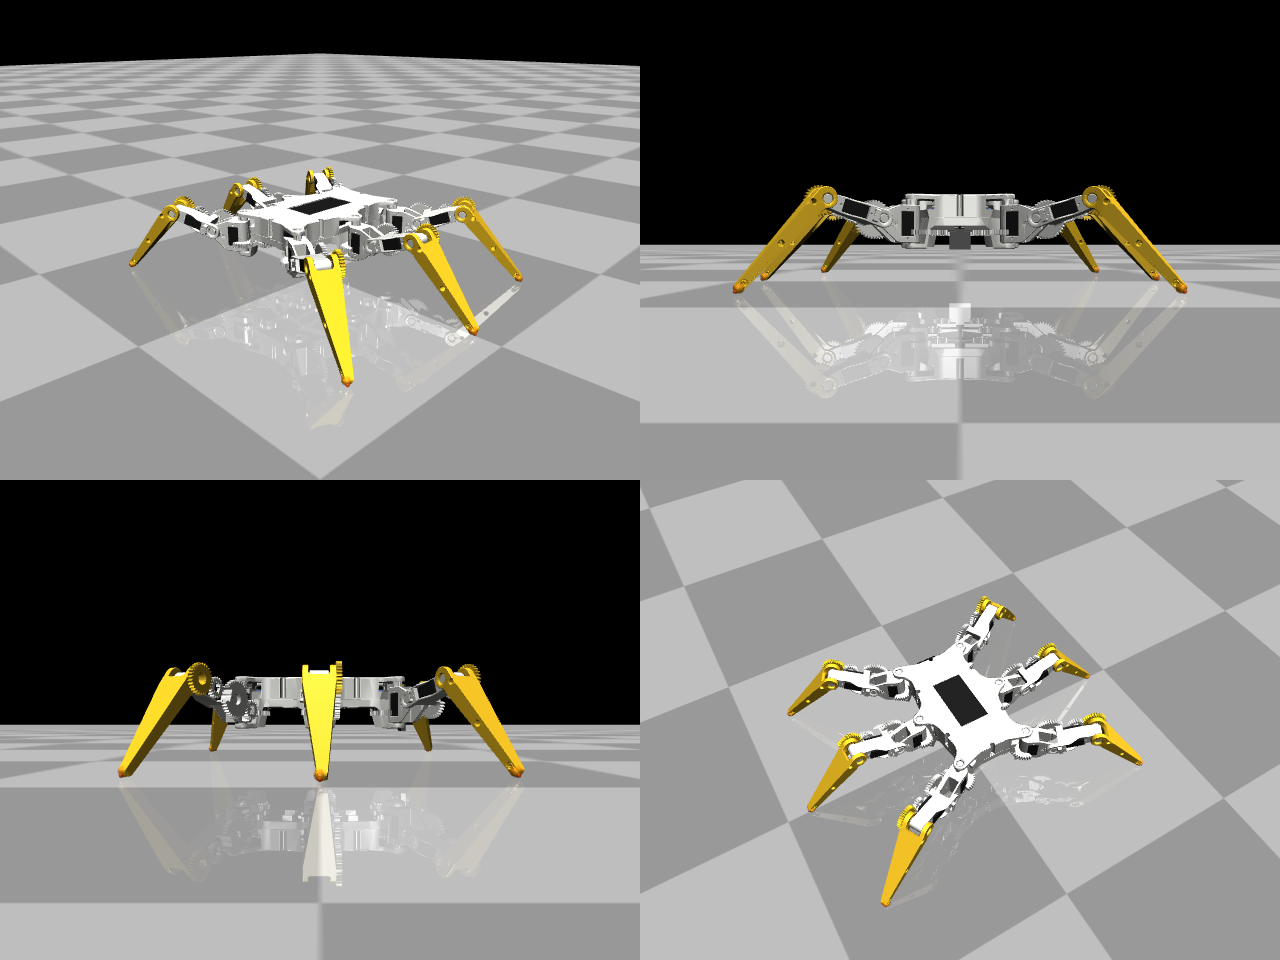
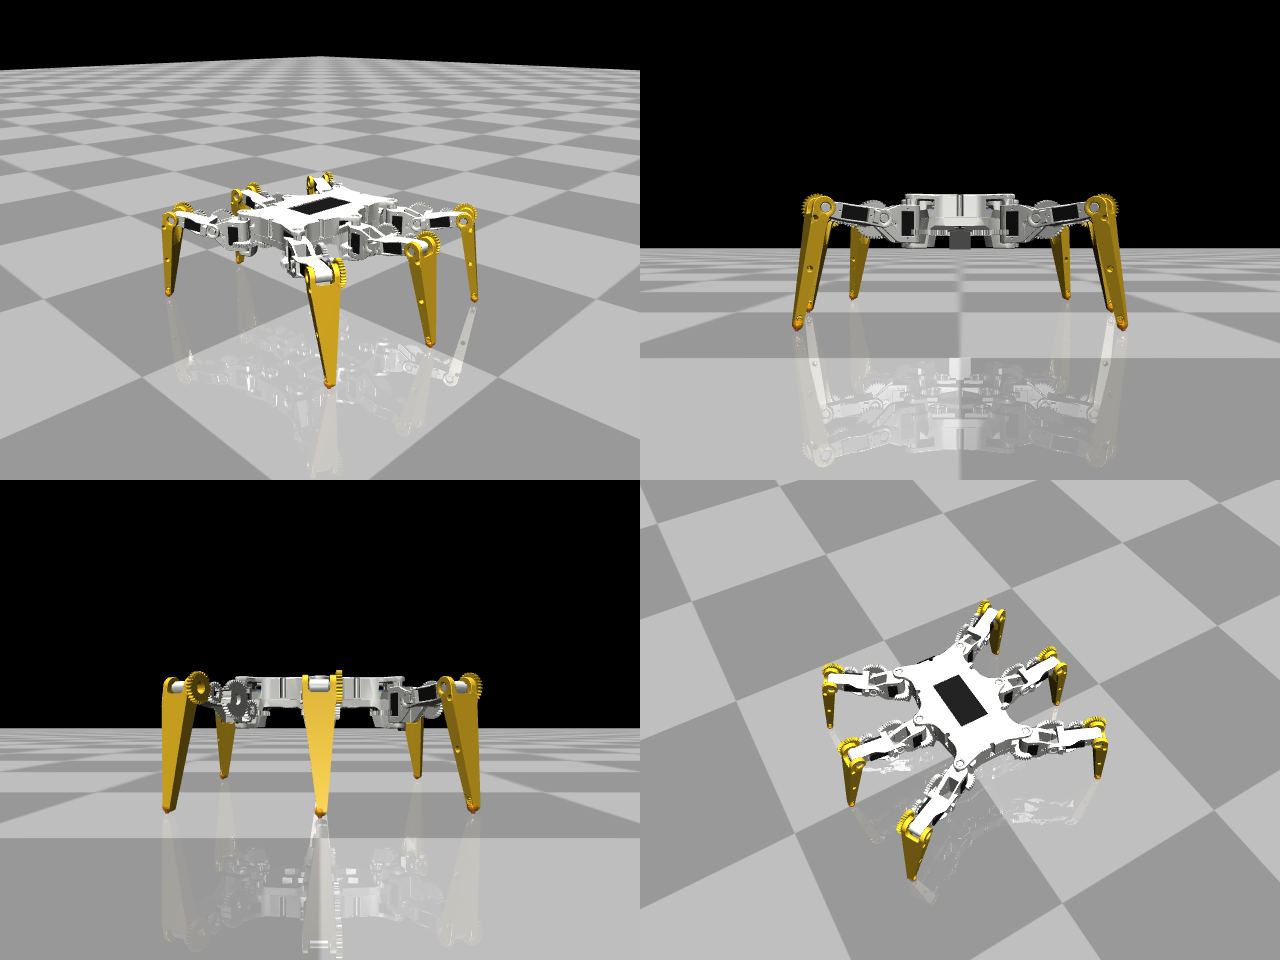
hexapod: taller stance, tibias near vertical
Neutral feet 110 mm out from the coxa axis and 100 mm down (was 160 / 67):
femur 8 deg up, tibia ~11 deg off vertical, body 33 mm higher. In the sim
the gait walks, strafes, turns and sits down with no servo range clamps,
and the femur servos drop from ~46% to ~26% of stall standing. Higher
knees run into the femur's 45 deg range (2:1 gear) when a foot lifts.

Claude-Session: https://claude.ai/code/session_01L7WAAAKkUGabR2XQgoanbZ

diff --git a/sim/tests/test_hexapod.py b/sim/tests/test_hexapod.py
@@ -39,13 +39,13 @@ def test_fk_inverts_firmware_ik(leg):
 
 
 def test_neutral_pose_is_servo_middle_rotated():
-    """Neutral stance: coxa at the servo middle, femur up 16.5 deg, knee open 24.6 deg."""
+    """Neutral stance: coxa at the servo middle, femur up 8.4 deg, knee nearly square (tibia ~11 deg off vertical)."""
     for leg in P.legs:
         a = firmware_ik(GEO, leg, default_foot(leg))
         q = leg_angles_to_q(*a)
         assert q[0] == pytest.approx(0, abs=1e-9)
-        assert math.degrees(q[1]) == pytest.approx(16.5, abs=0.1)
-        assert math.degrees(q[2]) == pytest.approx(24.6, abs=0.1)
+        assert math.degrees(q[1]) == pytest.approx(8.4, abs=0.1)
+        assert math.degrees(q[1] + q[2]) == pytest.approx(10.8, abs=0.1)   # tibia off vertical
 
 
 def test_mjcf_matches_fk():
@@ -84,8 +84,8 @@ def test_mass_and_standing_height():
     h = SimHexapod()
     assert sum(h.model.body_mass) * 1000 == pytest.approx(P.masses.total(), abs=0.5)
     h.step(0.5)
-    # IK height 67.3 mm, minus the servos sagging under the weight
-    assert 63.0 < h.body_position_mm()[2] < 67.5
+    # IK height 100 mm, minus the servos sagging under the weight
+    assert 97.0 < h.body_position_mm()[2] < 100.5
     o = h.body_orientation()
     assert abs(o["pitch"]) < 0.01 and abs(o["roll"]) < 0.01
 
@@ -128,7 +128,7 @@ def test_firmware_stands(fw, hexa):
     fw.drive(hexa, STOP, 1.5)
     assert np.linalg.norm(hexa.body_position_mm()[:2] - p0[:2]) < 2.0
     assert tilt_deg(hexa) < 1.0
-    assert hexa.body_position_mm()[2] > 63.0
+    assert hexa.body_position_mm()[2] > 97.0
 
 
 @needs_cxx
@@ -145,7 +145,7 @@ def test_firmware_walks(fw, hexa, command, axis, sign):
     assert sign * d[axis] > 180.0, d
     assert abs(d[1 - axis]) < 0.1 * abs(d[axis]), d
     assert tilt_deg(hexa) < 5.0
-    assert hexa.body_position_mm()[2] > 55.0
+    assert hexa.body_position_mm()[2] > 95.0
     assert fw.unsolved == 0
 
 

diff --git a/src/esp32-legged-robot/model/hexapod/config.h b/src/esp32-legged-robot/model/hexapod/config.h
@@ -9,20 +9,22 @@
 #define LEG_BODY_X      46.0
 #define LEG_BODY_Y      80.0
 #define LEG_BODY_Z       0.0
-// Neutral feet 160 mm from the coxa joint (same direction as before). The old
-// values (222.67, 173.75 and 267.5) put every foot 200 mm out, which is the
-// whole leg stretched flat (coxa + femur + tibia), so with the body 67 mm up
-// no foot could be reached and the IK only ever produced NaN.
-#define LEG_FOOT_X    187.34
-#define LEG_FOOT_Y    155.00
-#define LEG_FOOT_Z     67.31
+// Neutral feet 110 mm out from the coxa axis (same direction as before), 100 mm
+// below it: femur 8 deg up, tibia ~11 deg off vertical. Taller than the old
+// 160 / 67 mm stance and the femur servos carry far less torque, since the foot
+// is almost under the knee (checked in sim/, examples/hexapod_walk.py).
+// A higher knee doesn't fit: the femur goes at most 45 deg up (2:1 gear on a
+// 180 deg servo), and from 12 deg up lifting a foot 30 mm or sitting down hits it.
+#define LEG_FOOT_X    143.17
+#define LEG_FOOT_Y    131.56
+#define LEG_FOOT_Z    100.00
 
 #define LEG_MIDDLE_BODY_X    57.5
 #define LEG_MIDDLE_BODY_Y     0.0
 #define LEG_MIDDLE_BODY_Z     0.0
-#define LEG_MIDDLE_FOOT_X   217.5
+#define LEG_MIDDLE_FOOT_X   167.5
 #define LEG_MIDDLE_FOOT_Y     0.0
-#define LEG_MIDDLE_FOOT_Z    67.31
+#define LEG_MIDDLE_FOOT_Z   100.00
 
 // Robot config
 #define LEG_NUM HEXAPOD_ROBOT

diff --git a/sim/legsim/hexapod/params.py b/sim/legsim/hexapod/params.py
@@ -42,7 +42,7 @@ class HexLegConfig:
 # config.h: LEG_BODY_X/Y, LEG_FOOT_X/Y/Z, LEG_MIDDLE_* [code]. The STLs put the coxa
 # axes exactly here: bearing holes at (+-46, +-80) and (+-57.5, 0) [cad].
 _BX, _BY, _MX = 46.0, 80.0, 57.5
-_FX, _FY, _FZ, _MFX = 187.34, 155.0, 67.31, 217.5
+_FX, _FY, _FZ, _MFX = 143.17, 131.56, 100.00, 167.5
 
 # Angle inverse flags: left tibia, right femur (right legs are mirrored) [code]
 _INV_L = (False, False, True)

diff --git a/sim/README.md b/sim/README.md
@@ -225,18 +225,20 @@ the photos; `tools/prepare_hexapod_meshes.py` decimates them into
 newer, different body and isn't used. Estimated: the electronics and battery
 positions, the IMU at the body centre, and everything that needs a scale.
 
+Stance (`model/hexapod/config.h`): feet 110 mm out from the coxa axis and
+100 mm down, so the femur is 8° up and the tibia ~11° off vertical. The first
+model stance (160 mm out, 67 mm down) put the femur servos at their limit;
+the higher knee look (femur 15-45° up) runs into the femur's 45° range as soon
+as a foot lifts 30 mm or the robot sits down.
+
 First findings (with the estimated 892 g at ~5 V):
 
-* The firmware gait walks it as configured: about 270 mm forward in 4 s
-  (75 mm/s), 190 mm strafing in 3 s, turning at 0.75 rad/s, with under 3°
-  of tilt. No IK failures.
-* **Femur servos are at their limit.** Standing on six legs they use ~46 %
-  of stall torque; on three legs (the 2:1 femur gear gives 0.35 N·m) they
-  are saturated about 10 % of the time and the body sags 5-9 mm per step.
-  The real robot's weight and servo voltage decide how bad this is; less
-  mass or 6 V on the servos would help most.
-* Strafing and turning occasionally ask for more than the coxa's ±45°
-  (2:1 gear on a 180° servo); the firmware clamps those (`servo_range` count).
+* The firmware gait walks it as configured: about 310 mm forward in 4 s
+  (75 mm/s), 210 mm strafing in 3 s, turning at 0.75 rad/s, with under 1°
+  of tilt. No IK failures, no servo range clamps.
+* Femur servos use ~26 % of stall torque standing and stay below it while
+  walking (with the old wide stance: 46 % standing, saturated 10 % of the
+  time on three legs, 5-9 mm of sag).
 * Servo directions: see below.
 
 ### Servo directions (leg test)
